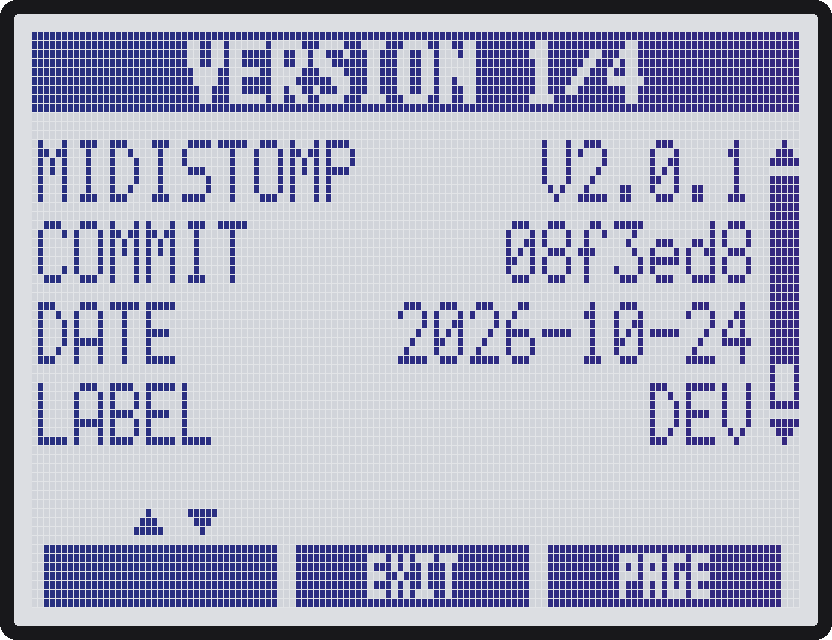
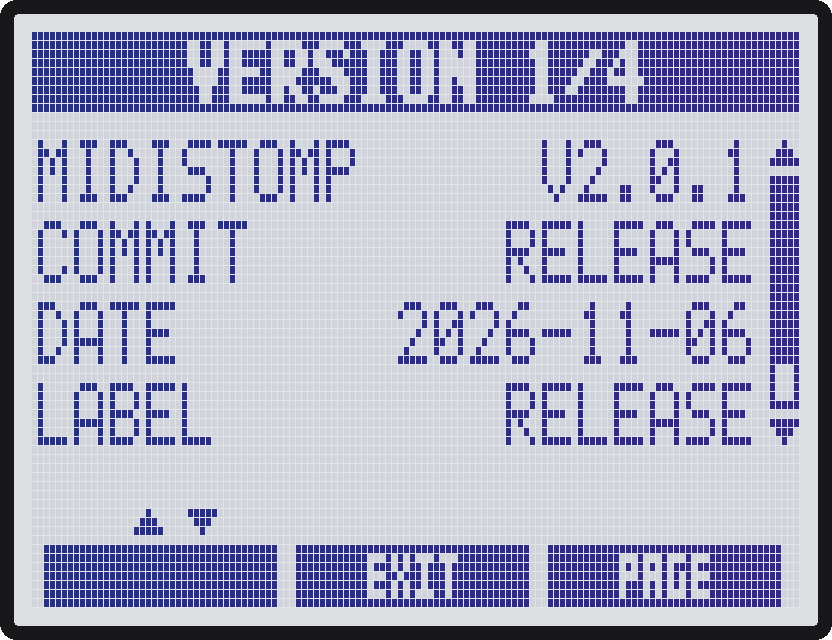
SYSTEM label reads RELEASE on a build from the builder
The frozen builder left LABEL at DEV. Guide shot shows a released build.

diff --git a/scripts/screens/fw_shot.py b/scripts/screens/fw_shot.py
@@ -22,7 +22,7 @@ UPDATER = Path(os.environ.get("ZOOM_UPDATER", Path.home() / "Downloads/ZOOM MS-7
 FB, B14, STOP, SP = 0x11816800, 0xC00EF748, 0xDEAD0000, 0x1180CF78
 RELEASE = ["version-1.2", "boot-logo", "midi-cc", "midi-clock", "midi-settings", "tempo-hold", "scroll"]
 # v2 = the 2.0 release set, midistomp_builder.PATCHES
-STAMP = ["version=V2.0.1", "commit=08f3ed8", "date=2026-10-24"]  # fixed diag.c build stamps, so the shots do not change per run
+STAMP = ["version=V2.0.1", "commit=RELEASE", "date=2026-11-06", "label=RELEASE"]  # a released build's stamps, fixed so the shots do not change per run
 IMAGES = {"release": RELEASE, "v2": ["version-2.0.1"] + RELEASE[1:] + ["looper", "mixer-m2", "diag", "dsp-limit", "fx-category"]}
 
 

diff --git a/zoomms/cli.py b/zoomms/cli.py
@@ -82,7 +82,8 @@ def build_stamp(patch_paths: list[str], given: list[str] = ()) -> dict:
                                 cwd=Path(__file__).parent, check=True).stdout.strip()
     except (OSError, subprocess.CalledProcessError):
         commit = "RELEASE"  # the frozen builder runs without git
-    stamp = {"version": version, "commit": commit, "date": datetime.date.today().isoformat(), "label": "DEV"}
+    label = "RELEASE" if commit == "RELEASE" else "DEV"
+    stamp = {"version": version, "commit": commit, "date": datetime.date.today().isoformat(), "label": label}
     stamp.update(kv.split("=", 1) for kv in given)
     return stamp
 

diff --git a/docs/user-guide.md b/docs/user-guide.md
@@ -696,7 +696,7 @@ MENU > **SYSTEM** has 4 pages. Knob 1 scrolls, knob 3 press goes to the next pag
 
 | Page | Shows |
 |---|---|
-| 1 **VERSION** | MIDISTOMP version, commit (RELEASE on a build from MIDISTOMP-builder), date and label of the build |
+| 1 **VERSION** | MIDISTOMP version, commit (RELEASE on a build from MIDISTOMP-builder), date and label (RELEASE, or DEV on your own build) |
 | 2 **LOAD** | CPU (all of it), CPU PEAK since the page opened, AUDIO (the effect chain) and AUDIO MAX, the free headroom, late audio blocks, and the patch's declared DSP out of 300 |
 | 3 **EFFECTS** | per effect: name, CPU share and declared DSP |
 | 4 **MODS** | the CPU share of each part, from most to least: EFFECTS, OS, EFFECT CHAIN, PERFORM MODE, LOOPER BUFFER, MIDI and SYSTEM itself; then MASTER and KALEIDO, with their load from the last time they were open (`-` if not opened since power-on) |
